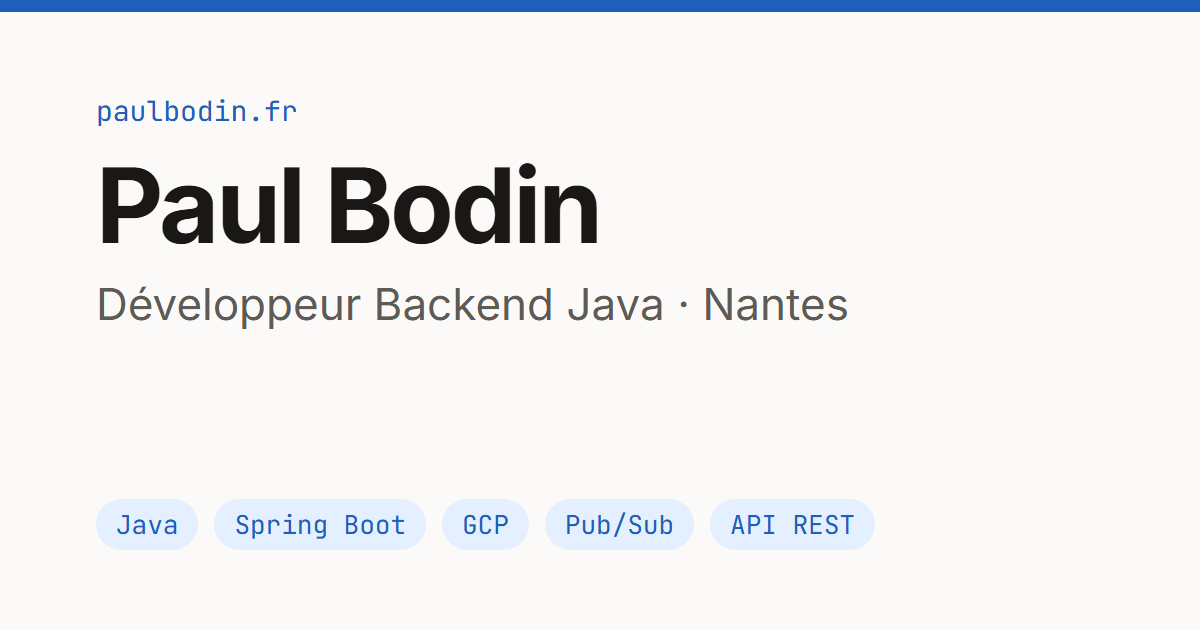
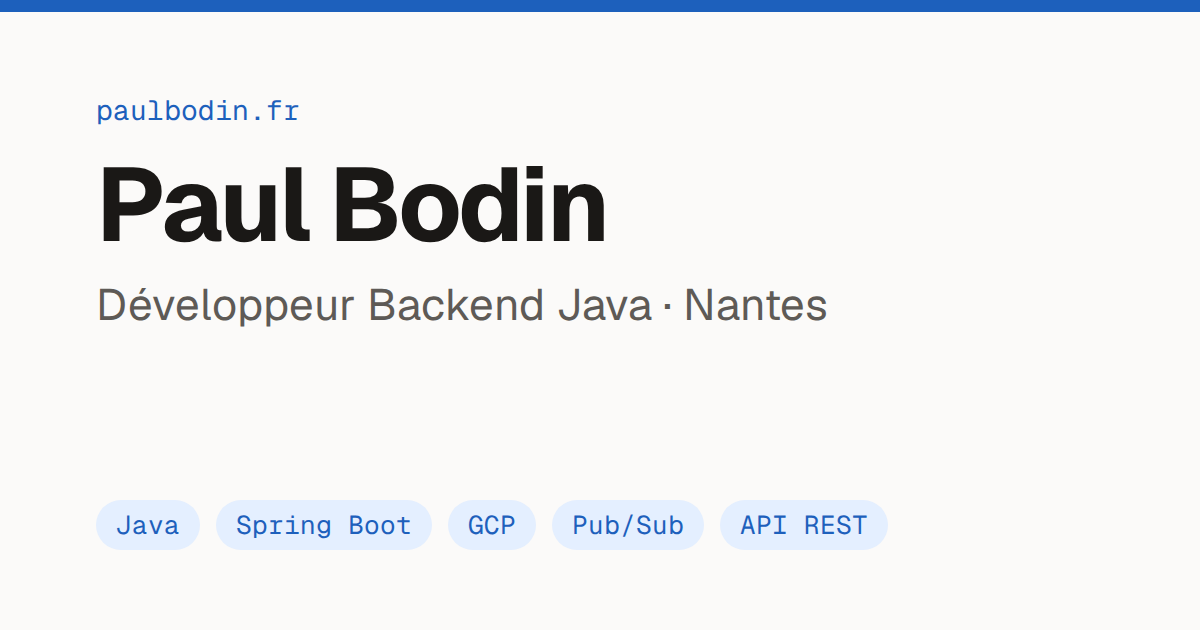
Passe la typographie en Geist (lot 2 de la finition visuelle)
- Geist et Geist Mono remplacent Inter et JetBrains Mono (Fontsource, auto-hébergées)
- Titres en semi-gras, nom du hero en interlettrage plus serré
- Image Open Graph régénérée avec les nouvelles polices

diff --git a/scripts/og-image.html b/scripts/og-image.html
@@ -5,13 +5,13 @@
     <meta charset="utf-8" />
     <style>
       @font-face {
-        font-family: 'Inter';
-        src: url('../node_modules/@fontsource-variable/inter/files/inter-latin-wght-normal.woff2');
+        font-family: 'Geist';
+        src: url('../node_modules/@fontsource-variable/geist/files/geist-latin-wght-normal.woff2');
         font-weight: 100 900;
       }
       @font-face {
-        font-family: 'JetBrains Mono';
-        src: url('../node_modules/@fontsource-variable/jetbrains-mono/files/jetbrains-mono-latin-wght-normal.woff2');
+        font-family: 'Geist Mono';
+        src: url('../node_modules/@fontsource-variable/geist-mono/files/geist-mono-latin-wght-normal.woff2');
         font-weight: 100 900;
       }
       html,
@@ -29,11 +29,11 @@
         padding: 80px 96px;
         background: oklch(0.985 0.002 75);
         color: oklch(0.21 0.006 60);
-        font-family: 'Inter', sans-serif;
+        font-family: 'Geist', sans-serif;
         border-top: 12px solid oklch(0.5 0.16 258);
       }
       .mono {
-        font-family: 'JetBrains Mono', monospace;
+        font-family: 'Geist Mono', monospace;
         color: oklch(0.5 0.16 258);
         font-size: 28px;
       }
@@ -54,7 +54,7 @@
         gap: 16px;
       }
       .tags span {
-        font-family: 'JetBrains Mono', monospace;
+        font-family: 'Geist Mono', monospace;
         font-size: 26px;
         padding: 8px 20px;
         border-radius: 999px;

diff --git a/src/styles/global.css b/src/styles/global.css
@@ -1,6 +1,6 @@
 @import 'tailwindcss';
-@import '@fontsource-variable/inter';
-@import '@fontsource-variable/jetbrains-mono';
+@import '@fontsource-variable/geist';
+@import '@fontsource-variable/geist-mono';
 @plugin '@tailwindcss/typography';
 
 /* Le mode sombre suit la classe .dark posée sur <html> (voir ThemeScript). */
@@ -41,8 +41,8 @@
   --color-accent: var(--accent);
   --color-accent-soft: var(--accent-soft);
 
-  --font-sans: 'Inter Variable', ui-sans-serif, system-ui, sans-serif;
-  --font-mono: 'JetBrains Mono Variable', ui-monospace, 'Cascadia Code', monospace;
+  --font-sans: 'Geist Variable', ui-sans-serif, system-ui, sans-serif;
+  --font-mono: 'Geist Mono Variable', ui-monospace, 'Cascadia Code', monospace;
 }
 
 @layer base {

diff --git a/README.md b/README.md
@@ -9,7 +9,7 @@ Portfolio de **Paul Bodin**, développeur backend Java à Nantes.
 - [Astro 7](https://astro.build) : site 100 % statique, aucun JavaScript inutile côté client
 - [Tailwind CSS 4](https://tailwindcss.com) : design system en variables CSS, thèmes clair et sombre
 - TypeScript strict, contenu en Markdown / MDX (content collections typées)
-- Polices auto-hébergées (Inter, JetBrains Mono), sitemap, Open Graph, données structurées schema.org
+- Polices auto-hébergées (Geist, Geist Mono), sitemap, Open Graph, données structurées schema.org
 
 Score Lighthouse : 99 à 100 sur les quatre catégories (performance, accessibilité, bonnes pratiques, SEO).
 
